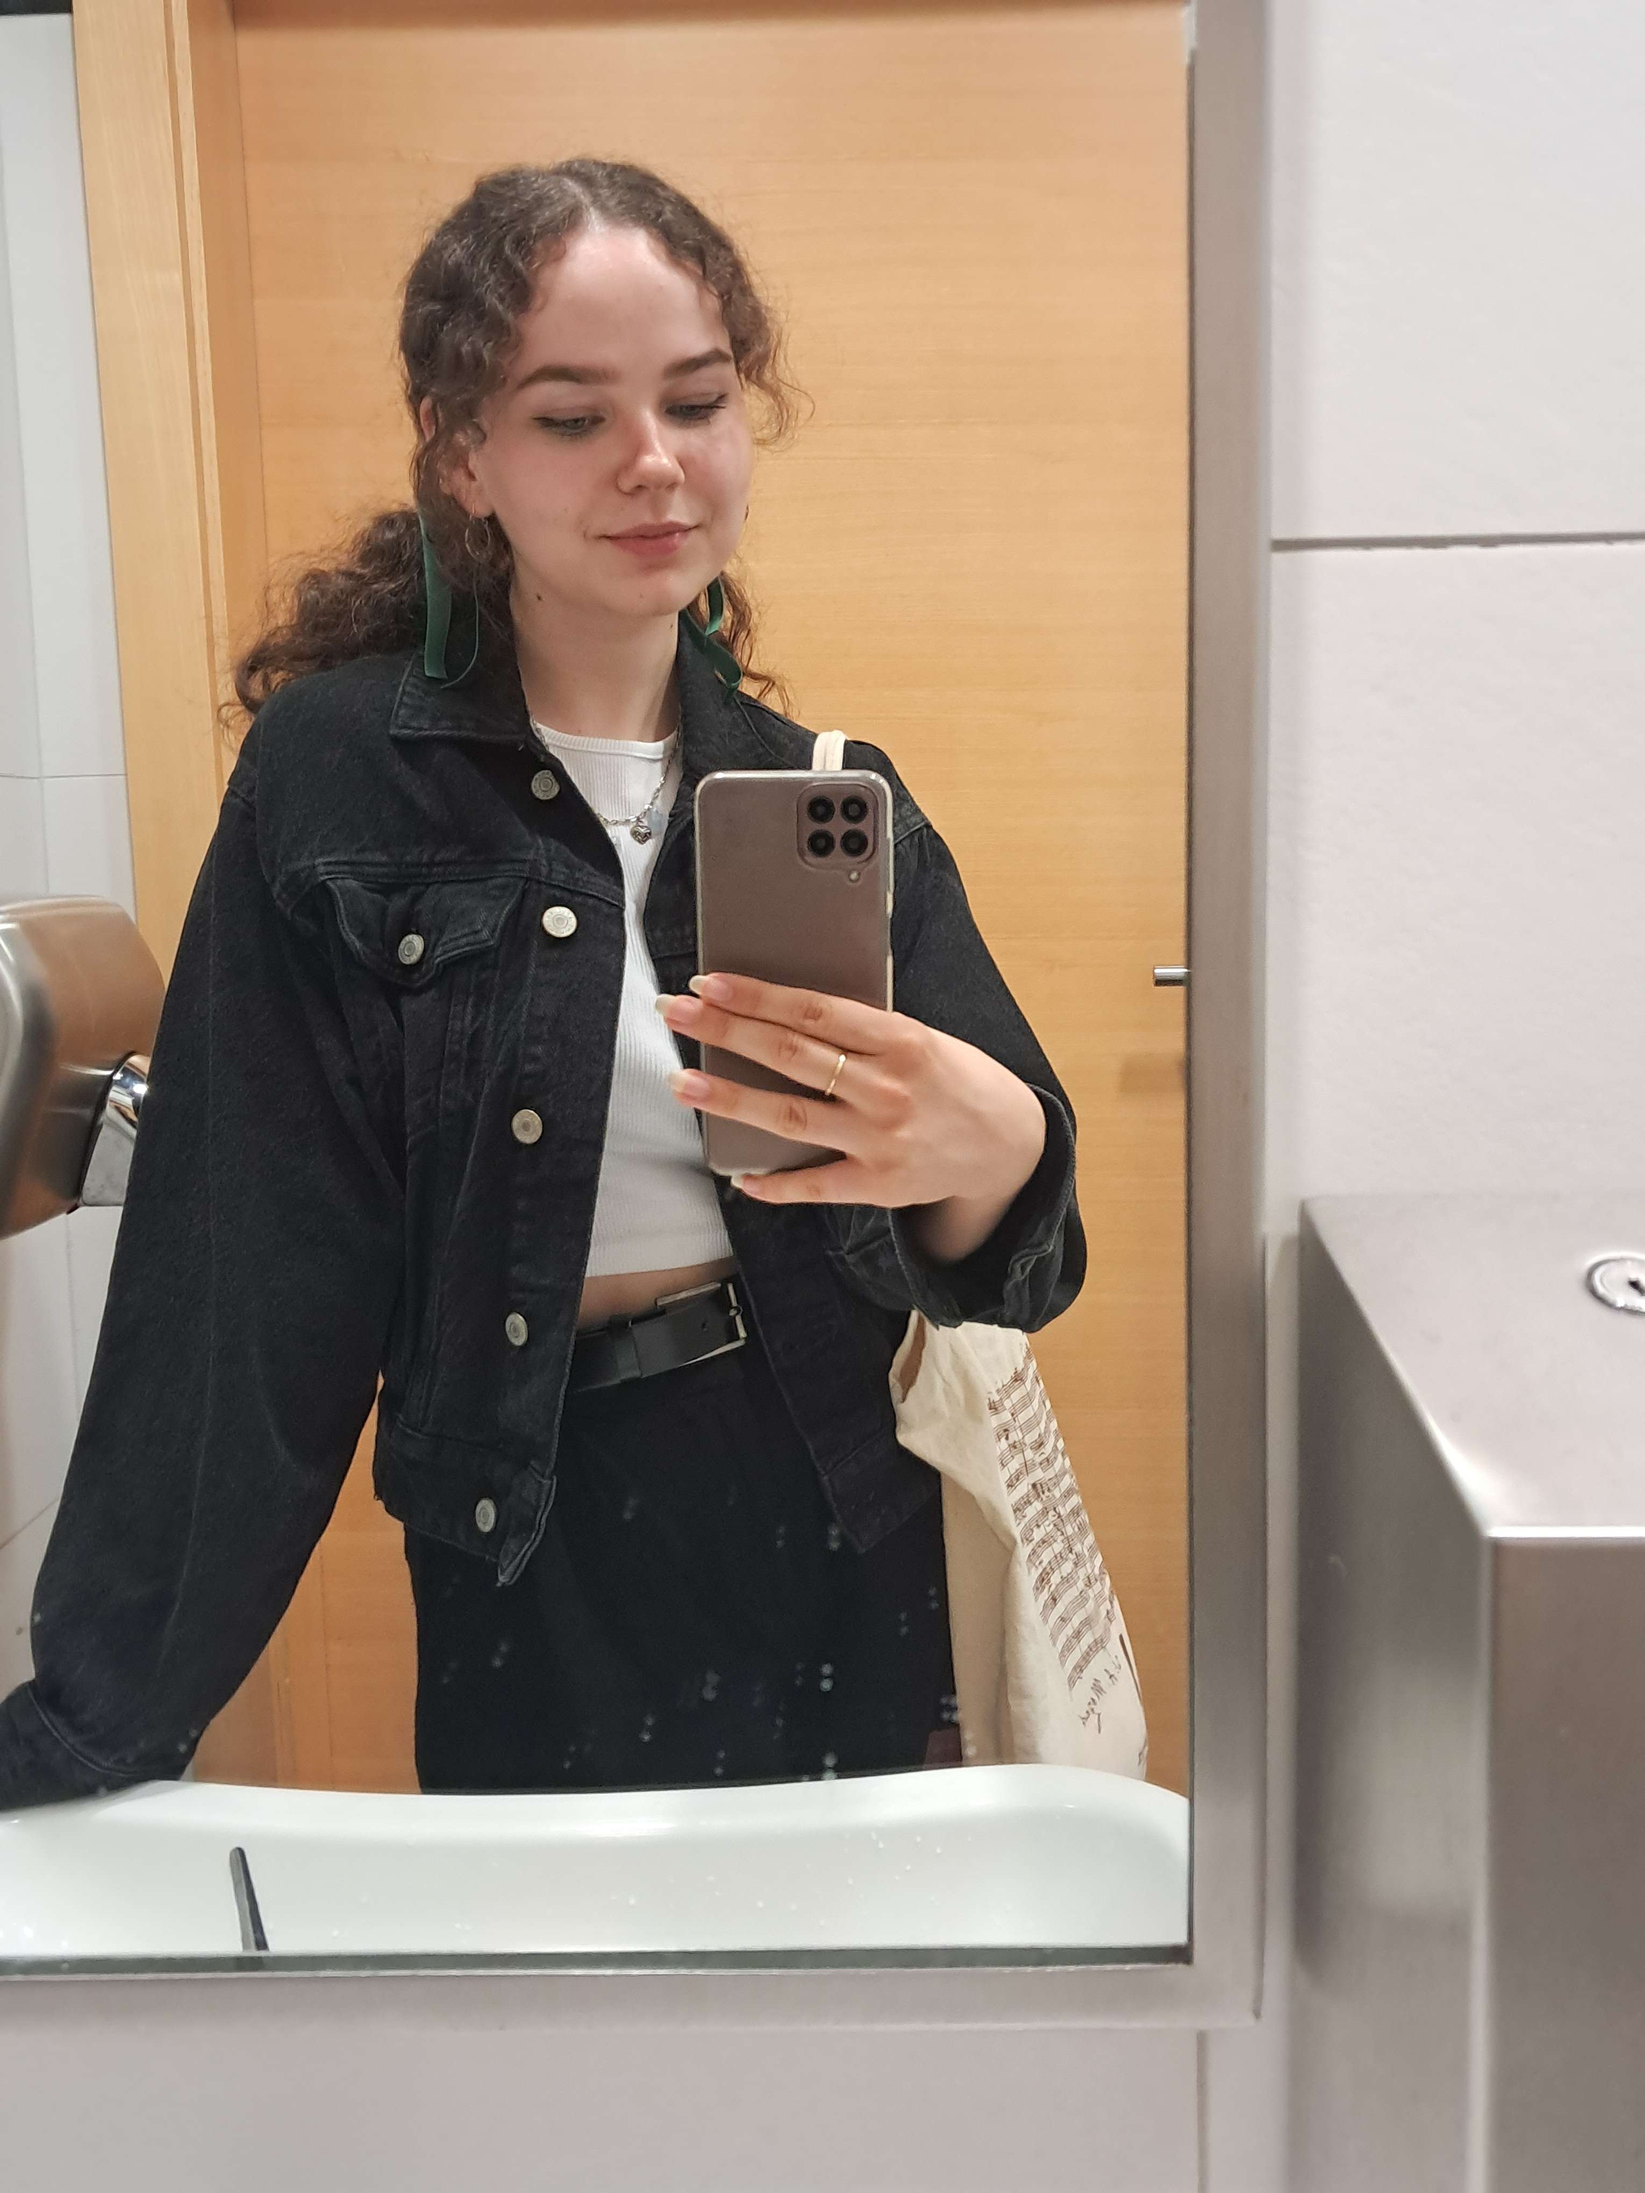
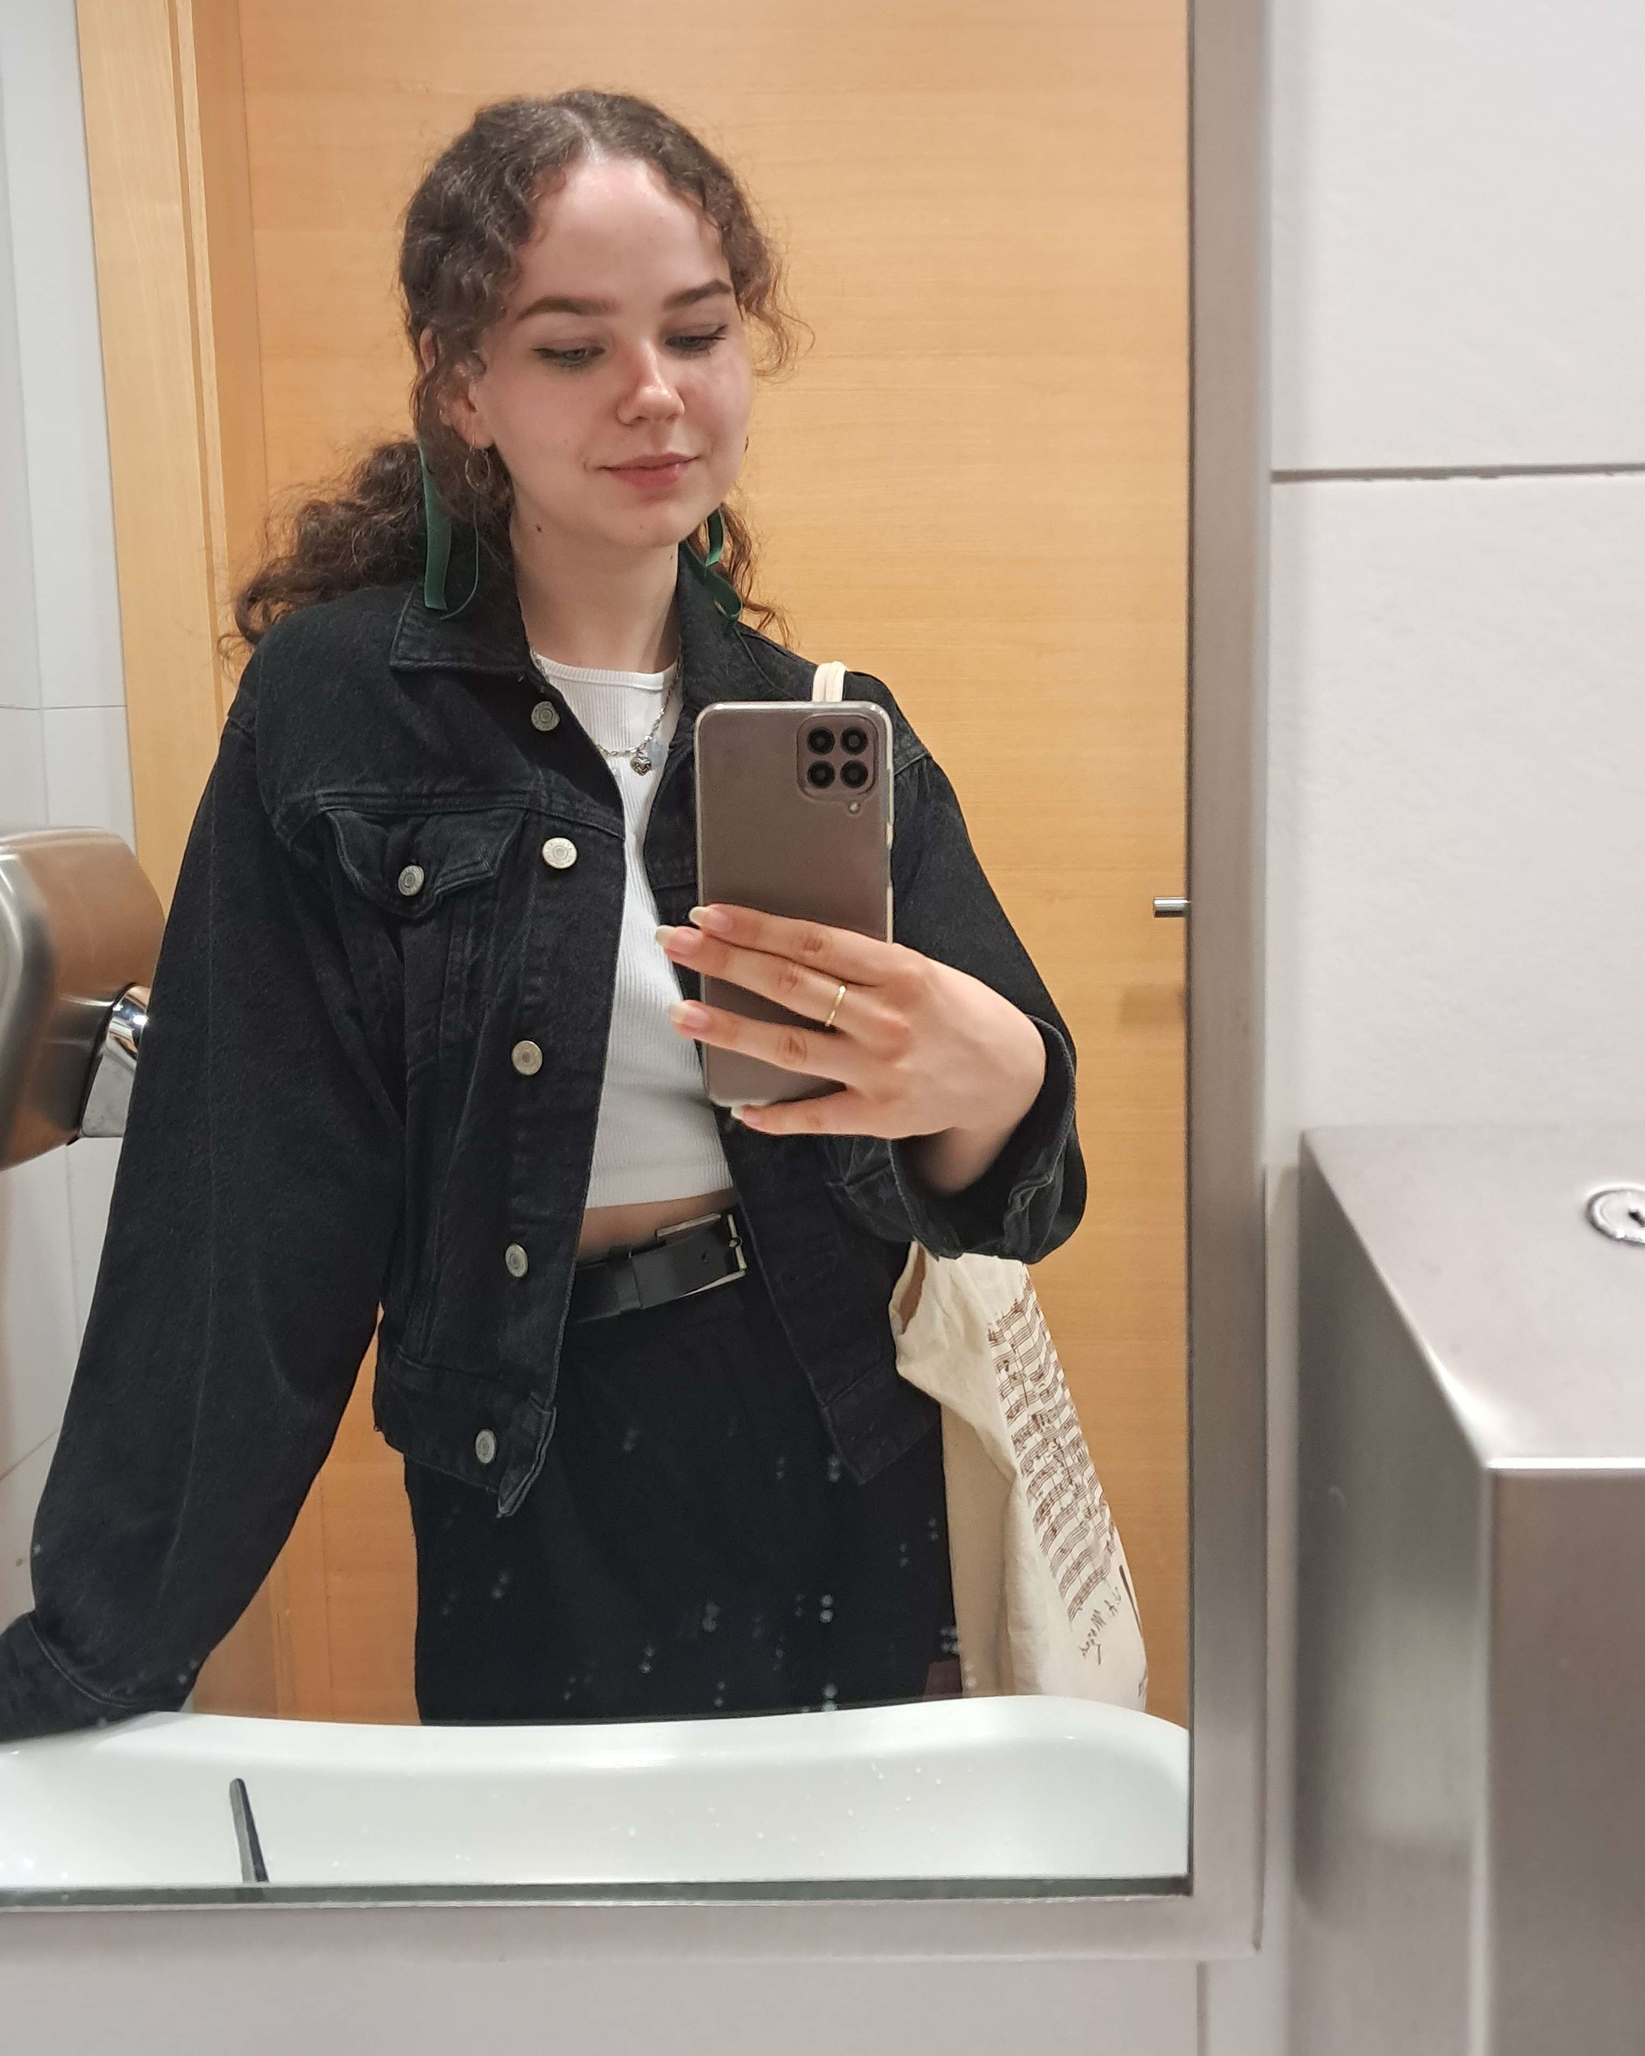
Zdjecie Wiki przyciete, dodane

diff --git a/index.html b/index.html
@@ -33,7 +33,7 @@
                 </div>
               </div>
               <div class="container">
-                <img src="gaba_zdj.jpg" alt="Avatar" class="image">
+                <img src="wika_zdj.jpg" alt="Avatar" class="image">
                 <div class="overlay">
                   <div class="text">Wiktoria Wezgraj<br>Position: Group Member<br>
                     Hobby:
